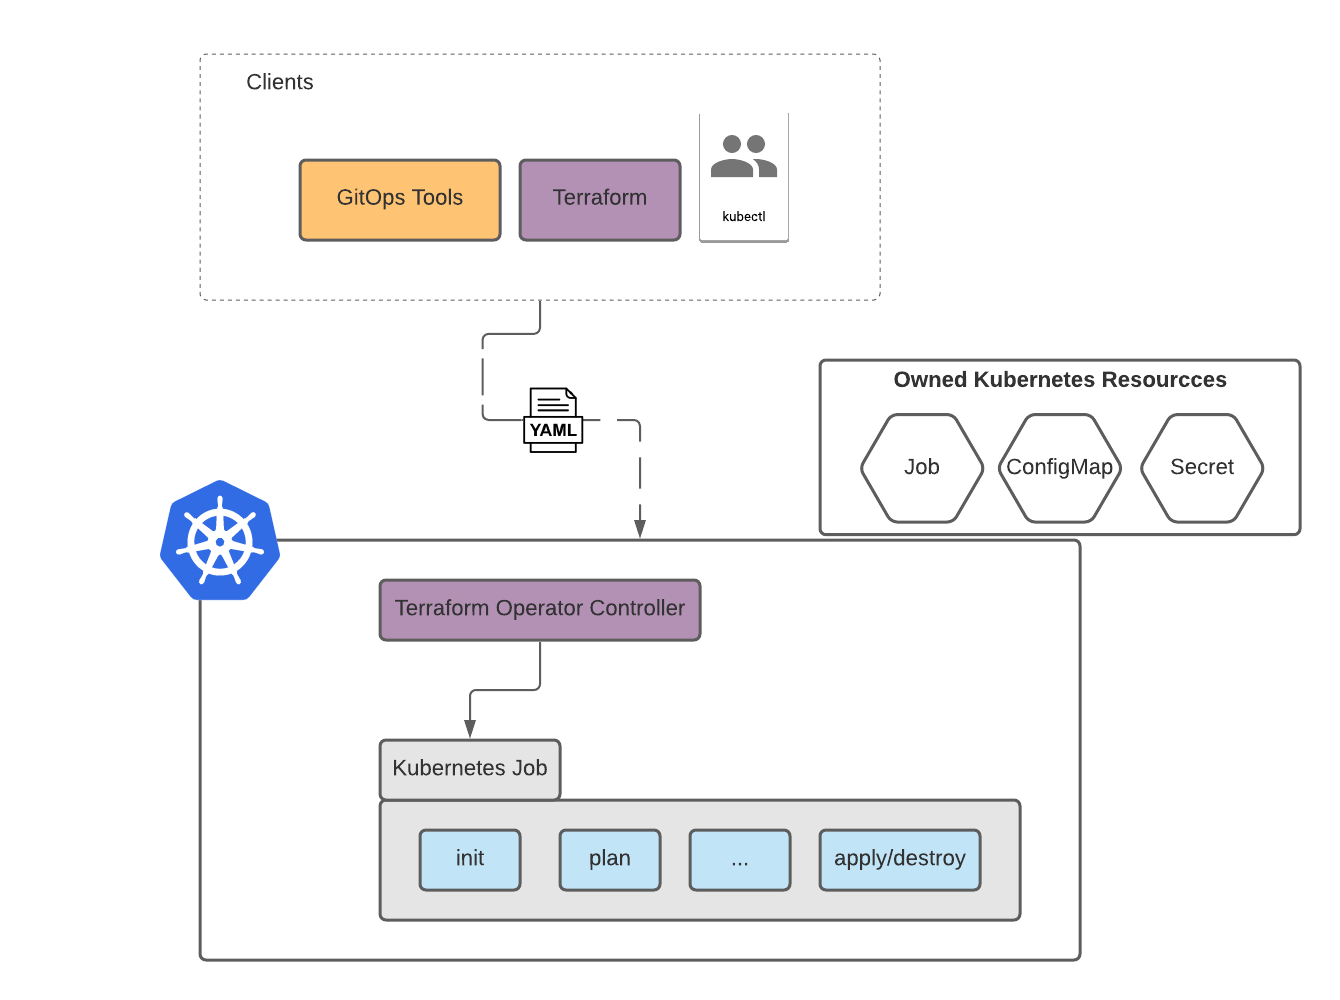
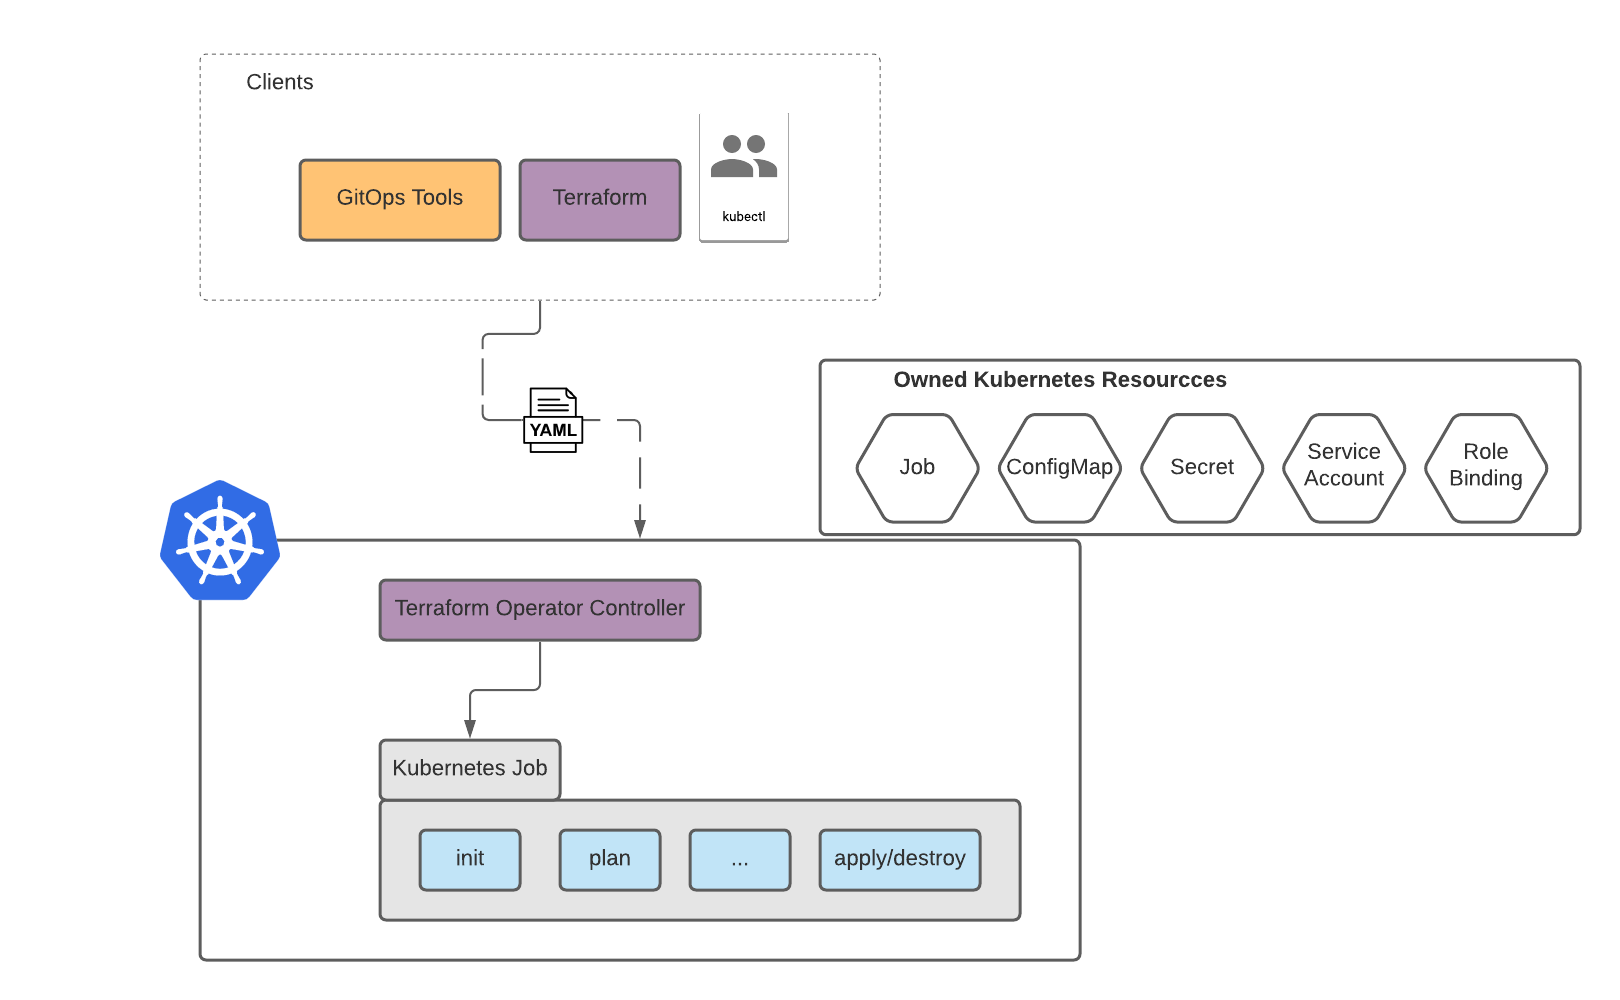
create service account and role binding and more samples

diff --git a/api/v1alpha1/k8s_rbac.go b/api/v1alpha1/k8s_rbac.go
@@ -1,0 +1,113 @@
+package v1alpha1
+
+import (
+	"context"
+
+	"github.com/kube-champ/terraform-operator/pkg/kube"
+	corev1 "k8s.io/api/core/v1"
+	rbacv1 "k8s.io/api/rbac/v1"
+	"k8s.io/apimachinery/pkg/api/errors"
+	metav1 "k8s.io/apimachinery/pkg/apis/meta/v1"
+)
+
+const runnerRBACName string = "terraform-runner"
+
+func createServiceAccount(namespace string) (*corev1.ServiceAccount, error) {
+	key := &corev1.ServiceAccount{
+		ObjectMeta: metav1.ObjectMeta{
+			Name:      runnerRBACName,
+			Namespace: namespace,
+		},
+	}
+
+	sa, err := kube.ClientSet.CoreV1().ServiceAccounts(namespace).Create(context.Background(), key, metav1.CreateOptions{})
+
+	if err != nil {
+		return nil, err
+	}
+
+	return sa, nil
+}
+
+func createRoleBinding(namespace string) (*rbacv1.RoleBinding, error) {
+	key := &rbacv1.RoleBinding{
+		ObjectMeta: metav1.ObjectMeta{
+			Name:      runnerRBACName,
+			Namespace: namespace,
+		},
+		RoleRef: rbacv1.RoleRef{
+			Kind:     "ClusterRole",
+			Name:     runnerRBACName,
+			APIGroup: "rbac.authorization.k8s.io",
+		},
+		Subjects: []rbacv1.Subject{
+			rbacv1.Subject{
+				Kind:      "ServiceAccount",
+				Name:      runnerRBACName,
+				Namespace: namespace,
+			},
+		},
+	}
+
+	role, err := kube.ClientSet.RbacV1().RoleBindings(namespace).Create(context.Background(), key, metav1.CreateOptions{})
+
+	if err != nil {
+		return nil, err
+	}
+
+	return role, nil
+}
+
+func isServiceAccountExist(namespace string) (bool, error) {
+	_, err := kube.ClientSet.CoreV1().ServiceAccounts(namespace).Get(context.Background(), runnerRBACName, metav1.GetOptions{})
+
+	if err != nil {
+		if errors.IsNotFound(err) {
+			return false, nil
+		}
+
+		return false, err
+	}
+
+	return true, nil
+}
+
+func isRoleBindingExist(namespace string) (bool, error) {
+	_, err := kube.ClientSet.RbacV1().RoleBindings(namespace).Get(context.Background(), runnerRBACName, metav1.GetOptions{})
+
+	if err != nil {
+		if errors.IsNotFound(err) {
+			return false, nil
+		}
+
+		return false, err
+	}
+
+	return true, nil
+}
+
+func createRbacConfigIfNotExist(namespace string) error {
+	saExist, err := isServiceAccountExist(namespace)
+
+	if err != nil {
+		return err
+	}
+
+	roleBindingExist, err := isRoleBindingExist(namespace)
+
+	if err != nil {
+		return err
+	}
+
+	if !saExist && !roleBindingExist {
+		if _, err := createServiceAccount(namespace); err != nil {
+			return err
+		}
+
+		if _, err := createRoleBinding(namespace); err != nil {
+			return err
+		}
+	}
+
+	return nil
+}

diff --git a/api/v1alpha1/k8s_rbac_test.go b/api/v1alpha1/k8s_rbac_test.go
@@ -1,0 +1,71 @@
+package v1alpha1
+
+import (
+	"context"
+
+	rbacv1 "k8s.io/api/rbac/v1"
+	metav1 "k8s.io/apimachinery/pkg/apis/meta/v1"
+
+	"github.com/kube-champ/terraform-operator/pkg/kube"
+	. "github.com/onsi/ginkgo"
+	. "github.com/onsi/gomega"
+)
+
+var _ = Describe("Kubernetes RBAC", func() {
+	BeforeEach(func() {
+		// Add any setup steps that needs to be executed before each test
+	})
+
+	AfterEach(func() {
+		// Add any teardown steps that needs to be executed after each test
+	})
+
+	rbacName := "terraform-runner"
+	namespace := "default"
+
+	Context("RBAC", func() {
+		It("should create a cluster role", func() {
+			kube.ClientSet.RbacV1().ClusterRoles().Create(context.Background(), &rbacv1.ClusterRole{
+				ObjectMeta: metav1.ObjectMeta{
+					Name: rbacName,
+				},
+				Rules: []rbacv1.PolicyRule{
+					rbacv1.PolicyRule{
+						APIGroups: []string{},
+						Resources: []string{"secrets"},
+						Verbs:     []string{"get", "update"},
+					},
+				},
+			}, metav1.CreateOptions{})
+		})
+
+		It("service account should not be found", func() {
+			found, err := isServiceAccountExist(namespace)
+
+			Expect(err).ToNot(HaveOccurred())
+			Expect(found).To(BeFalse())
+		})
+
+		It("role binding should not be found", func() {
+			found, err := isRoleBindingExist(namespace)
+
+			Expect(err).ToNot(HaveOccurred())
+			Expect(found).To(BeFalse())
+		})
+
+		It("should create service account and role binding", func() {
+			err := createRbacConfigIfNotExist(namespace)
+			Expect(err).ToNot(HaveOccurred())
+
+			sa, err := kube.ClientSet.CoreV1().ServiceAccounts(namespace).Get(context.Background(), rbacName, metav1.GetOptions{})
+
+			Expect(err).ToNot(HaveOccurred())
+			Expect(sa.Name).To(Equal(rbacName))
+
+			roleBinding, err := kube.ClientSet.RbacV1().RoleBindings(namespace).Get(context.Background(), rbacName, metav1.GetOptions{})
+
+			Expect(err).ToNot(HaveOccurred())
+			Expect(roleBinding.Name).To(Equal(rbacName))
+		})
+	})
+})

diff --git a/api/v1alpha1/terraform_types.go b/api/v1alpha1/terraform_types.go
@@ -214,6 +214,10 @@ func (t *Terraform) GetOwnerReference() metav1.OwnerReference {
 
 // Creates a terraform Run as a Kubernetes job
 func (t *Terraform) CreateTerraformRun(namespacedName types.NamespacedName) (*batchv1.Job, error) {
+	if err := createRbacConfigIfNotExist(namespacedName.Namespace); err != nil {
+		return nil, err
+	}
+
 	configMap, err := createConfigMapForModule(namespacedName, t)
 
 	if err != nil {

diff --git a/api/v1alpha1/terraform_types_test.go b/api/v1alpha1/terraform_types_test.go
@@ -26,7 +26,7 @@ var _ = Describe("TerraformRun", func() {
 	var created, fetched *Terraform
 
 	Context("Create run", func() {
-		It("should create a terraform run successfully", func() {
+		It("should create a Terraform Object", func() {
 			created = &Terraform{
 				ObjectMeta: metav1.ObjectMeta{
 					Name:      "foo",

diff --git a/api/v1alpha1/terraform_template.go b/api/v1alpha1/terraform_template.go
@@ -42,7 +42,6 @@ func getTerraformModuleFromTemplate(run *Terraform) ([]byte, error) {
 	
 	{{- range .Spec.Outputs}}
 	output "{{.Key}}" {
-		sensitive = {{.Sensitive}}
 		value = module.operator.{{.ModuleOutputName}}
 	}
 	{{- end}}`)
